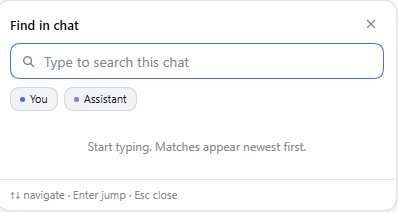
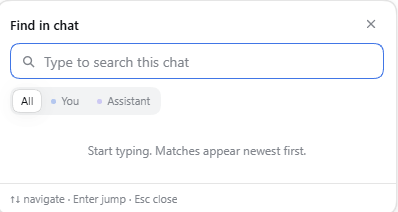
update readme for author selector

diff --git a/README.md b/README.md
@@ -11,7 +11,7 @@ A search control in the conversation header. It searches the **whole open sessio
 - One magnifier button in the conversation header, next to the Session utilities.
 - Literal, case-insensitive search; whitespace in the query matches any whitespace run, so `lu box` finds `lu\nbox`.
 - Results are one row per occurrence, newest first, with the message kind, Turn, time, and a two-line preview around the match.
-- Two filter pills, **You** and **Assistant**, are both enabled by default. The Host applies them before the 500-hit cap, so hiding one author never hides matches from the other.
+- A three-way selector — **All**, **You**, **Assistant** — chooses which author stays in the results; **All** is the default. The Host applies it before the 500-hit cap, so narrowing the author never hides the remaining matches.
 - `↑` / `↓` move through the list, `Enter` opens the active match, a click opens any row.
 - The Chat is asked to load the missing history window before the jump, so matches in old Turns work too.
 - The matched text is highlighted with the CSS Custom Highlight API, and a short-lived ring marks the exact spot (it stays visible even inside inline code, where a highlight would sit under the code background).
@@ -85,7 +85,7 @@ MIT
 - Кнопка с лупой в шапке чата, рядом с остальными действиями сессии.
 - Поиск буквальный, без учёта регистра; пробелы в запросе совпадают с любым набором пробельных символов, поэтому `lu box` находит `lu\nbox`.
 - Каждая строка списка — одно совпадение, сначала самые новые; видны тип сообщения, ход, время и две строки контекста вокруг найденного текста.
-- Две «пилюли» фильтра — **Вы** и **Ассистент**, обе включены по умолчанию. Host применяет их до лимита в 500 совпадений, поэтому скрытие одного автора не прячет совпадения другого.
+- Переключатель на три положения — **Все**, **Вы**, **Ассистент** — выбирает, чьи сообщения оставить в результатах; по умолчанию **Все**. Host применяет выбор до лимита в 500 совпадений, поэтому сужение автора не прячет оставшиеся совпадения.
 - `↑` / `↓` листают список, `Enter` открывает выбранное совпадение, клик открывает любую строку.
 - Перед переходом Chat догружает недостающую часть истории, поэтому работают и совпадения в старых ходах.
 - Найденный текст подсвечивается через CSS Custom Highlight, а точное место на короткое время обводится рамкой — её видно даже внутри inline-кода, где обычная подсветка уходит под фон плашки.
@@ -159,7 +159,7 @@ MIT
 - 会话标题栏中的一个放大镜按钮，位于会话操作区。
 - 字面匹配、不区分大小写；查询中的空白可匹配任意空白，因此 `lu box` 能找到 `lu\nbox`。
 - 列表每一行是一个匹配项，最新的在前，显示消息类型、轮次、时间和匹配处周围的两行预览。
-- 两个筛选标签 **你** 和 **助手**，默认都勾选。Host 在 500 条上限之前应用筛选，因此关闭一个作者不会隐藏另一个作者的匹配。
+- 三档选择器 **全部 / 你 / 助手**，决定结果中保留谁的消息；默认 **全部**。Host 在 500 条上限之前应用筛选，因此缩小作者范围不会隐藏其余匹配。
 - `↑` / `↓` 在列表中移动，`Enter` 打开当前匹配项，点击任意行也可以打开。
 - 跳转前会让 Chat 加载缺失的历史窗口，因此旧轮次中的匹配也能打开。
 - 匹配文本用 CSS Custom Highlight 标出，并用一个短暂的圆角框圈出准确位置——即使匹配位于行内代码中，高亮会被代码底色盖住，圆角框仍然可见。
